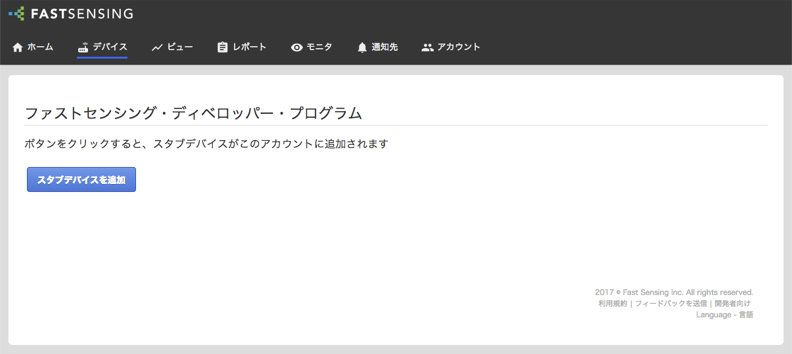
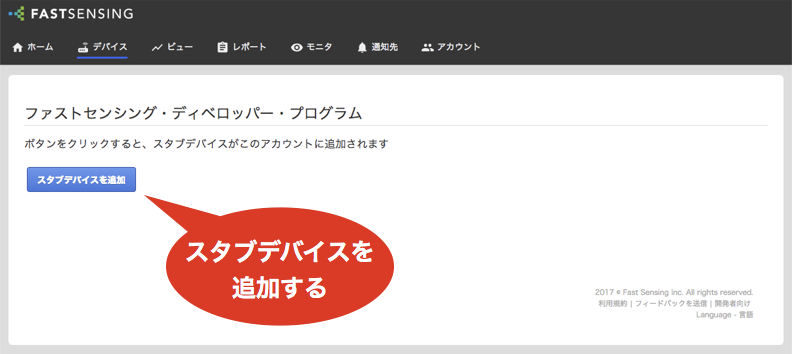
Fastsensingの説明を追加

Changed region(s): [[0.1818, 0.5593, 0.5152, 0.9322]]

diff --git a/articles/md/8-nefrybt-library2.md b/articles/md/8-nefrybt-library2.md
@@ -4,7 +4,7 @@
 Ambient（https://ambidata.io/）は、主にマイコンボードなどからのデータを無料で簡単に可視化できるサービスです。
 
 
-![Ambientホームページ](ambient_top)
+![Ambientのホームページ](ambient_top)
 
 
 Ambientライブラリは、`NefryAmbient.h`をincludeすることで使えるようになります。
@@ -98,7 +98,65 @@ void loop() {
 
 ## ティスプレイ（Nefry_Display）
 
-## Fast Sensingライブラリ（Nefry_FastSensing）
+## Fastsensingライブラリ（Nefry_FastSensing）
+Fastsensing（https://fastsensing.com/ja/）は、専用のデバイスやマイコンボードからのセンサーデータを受信し、グラフ化や異常検知をしてくれるサービスです。
+
+
+![Fastsensingのホームページ](fastsensing_top)
+
+
+通常は専用のデバイスからセンサーデータをアップロードするのですが、ファストセンシング・ディベロッパー・プログラム（https://fastsensing.com/ja/developer/）をつかって、さまざまなマイコンボードからデータをアップロードすることができます。
+
+
+![ファストセンシング・ディベロッパー・プログラム](fastsensing_developer_program)
+
+
+ファストセンシング・ディベロッパー・プログラムのページ上の`スタブデバイスの追加`のリンクから、Fastsensingのコンソールに遷移でき、仮想のデバイスを登録することができます。
+
+
+![スタブデバイスの追加](fastsensing_add_stub_device)
+
+
+ここから`スタブデバイス`を追加すると、1つのデバイスに対して3つの独立したチャネルが割り当てられて、それぞれのチャネルに対してセンサーデータをアップロードすることができます。
+
+
+![スタブデバイスの詳細](fastsensing_detail)
+
+
+コンソール（https://console.fastsensing.com/devices）に登録した`スタブデバイス`が表示されいるので、それを選択するとデバイスの詳細画面が表示されます。そこで、デバイスと各チャネルのトークンが表示されます。Nefry BTのFastsensingライブラリでは、これらのトークンをつかってセンサーデータをアップロードします。
+
+
+```
+#include <NefryFastSensing.h> // FastSensingライブラリを使うのに必要
+#define DEVICE_TOKEN xxxx // デバイスのトークン
+#define CHANNEL1_TOKEN xxxx // チャネル1のトークン
+#define CHANNEL2_TOKEN xxxx // チャネル2のトークン
+#define CHANNEL3_TOKEN xxxx // チャネル3のトークン
+
+
+NefryFastSensing fastSensing; // Fastsensingと通信するために必要なインスタンス
+float floatData = 0;
+float intData = 0;
+
+void setup() {
+  fastSensing.begin(DEVICE_TOKEN, CHANNEL1_TOKEN, CHANNEL2_TOKEN, CHANNEL3_TOKEN);
+}
+
+void loop() {
+  fastSensing.setValue(0, floatData); // Fastsensingに送るデータをセットします
+  fastSensing.setValue(1, intData); // 一つ目の引数はチャネル（0〜2）を指定しています
+
+  fastSensing.push(); // セットしたデータをFastsensingに送信します
+
+  floatData += 0.1;
+  intData++;
+  delay(10000);
+}
+```
+
+
+
+
 
 ## Firebaseライブラリ（Nefry_FireBase）
 
